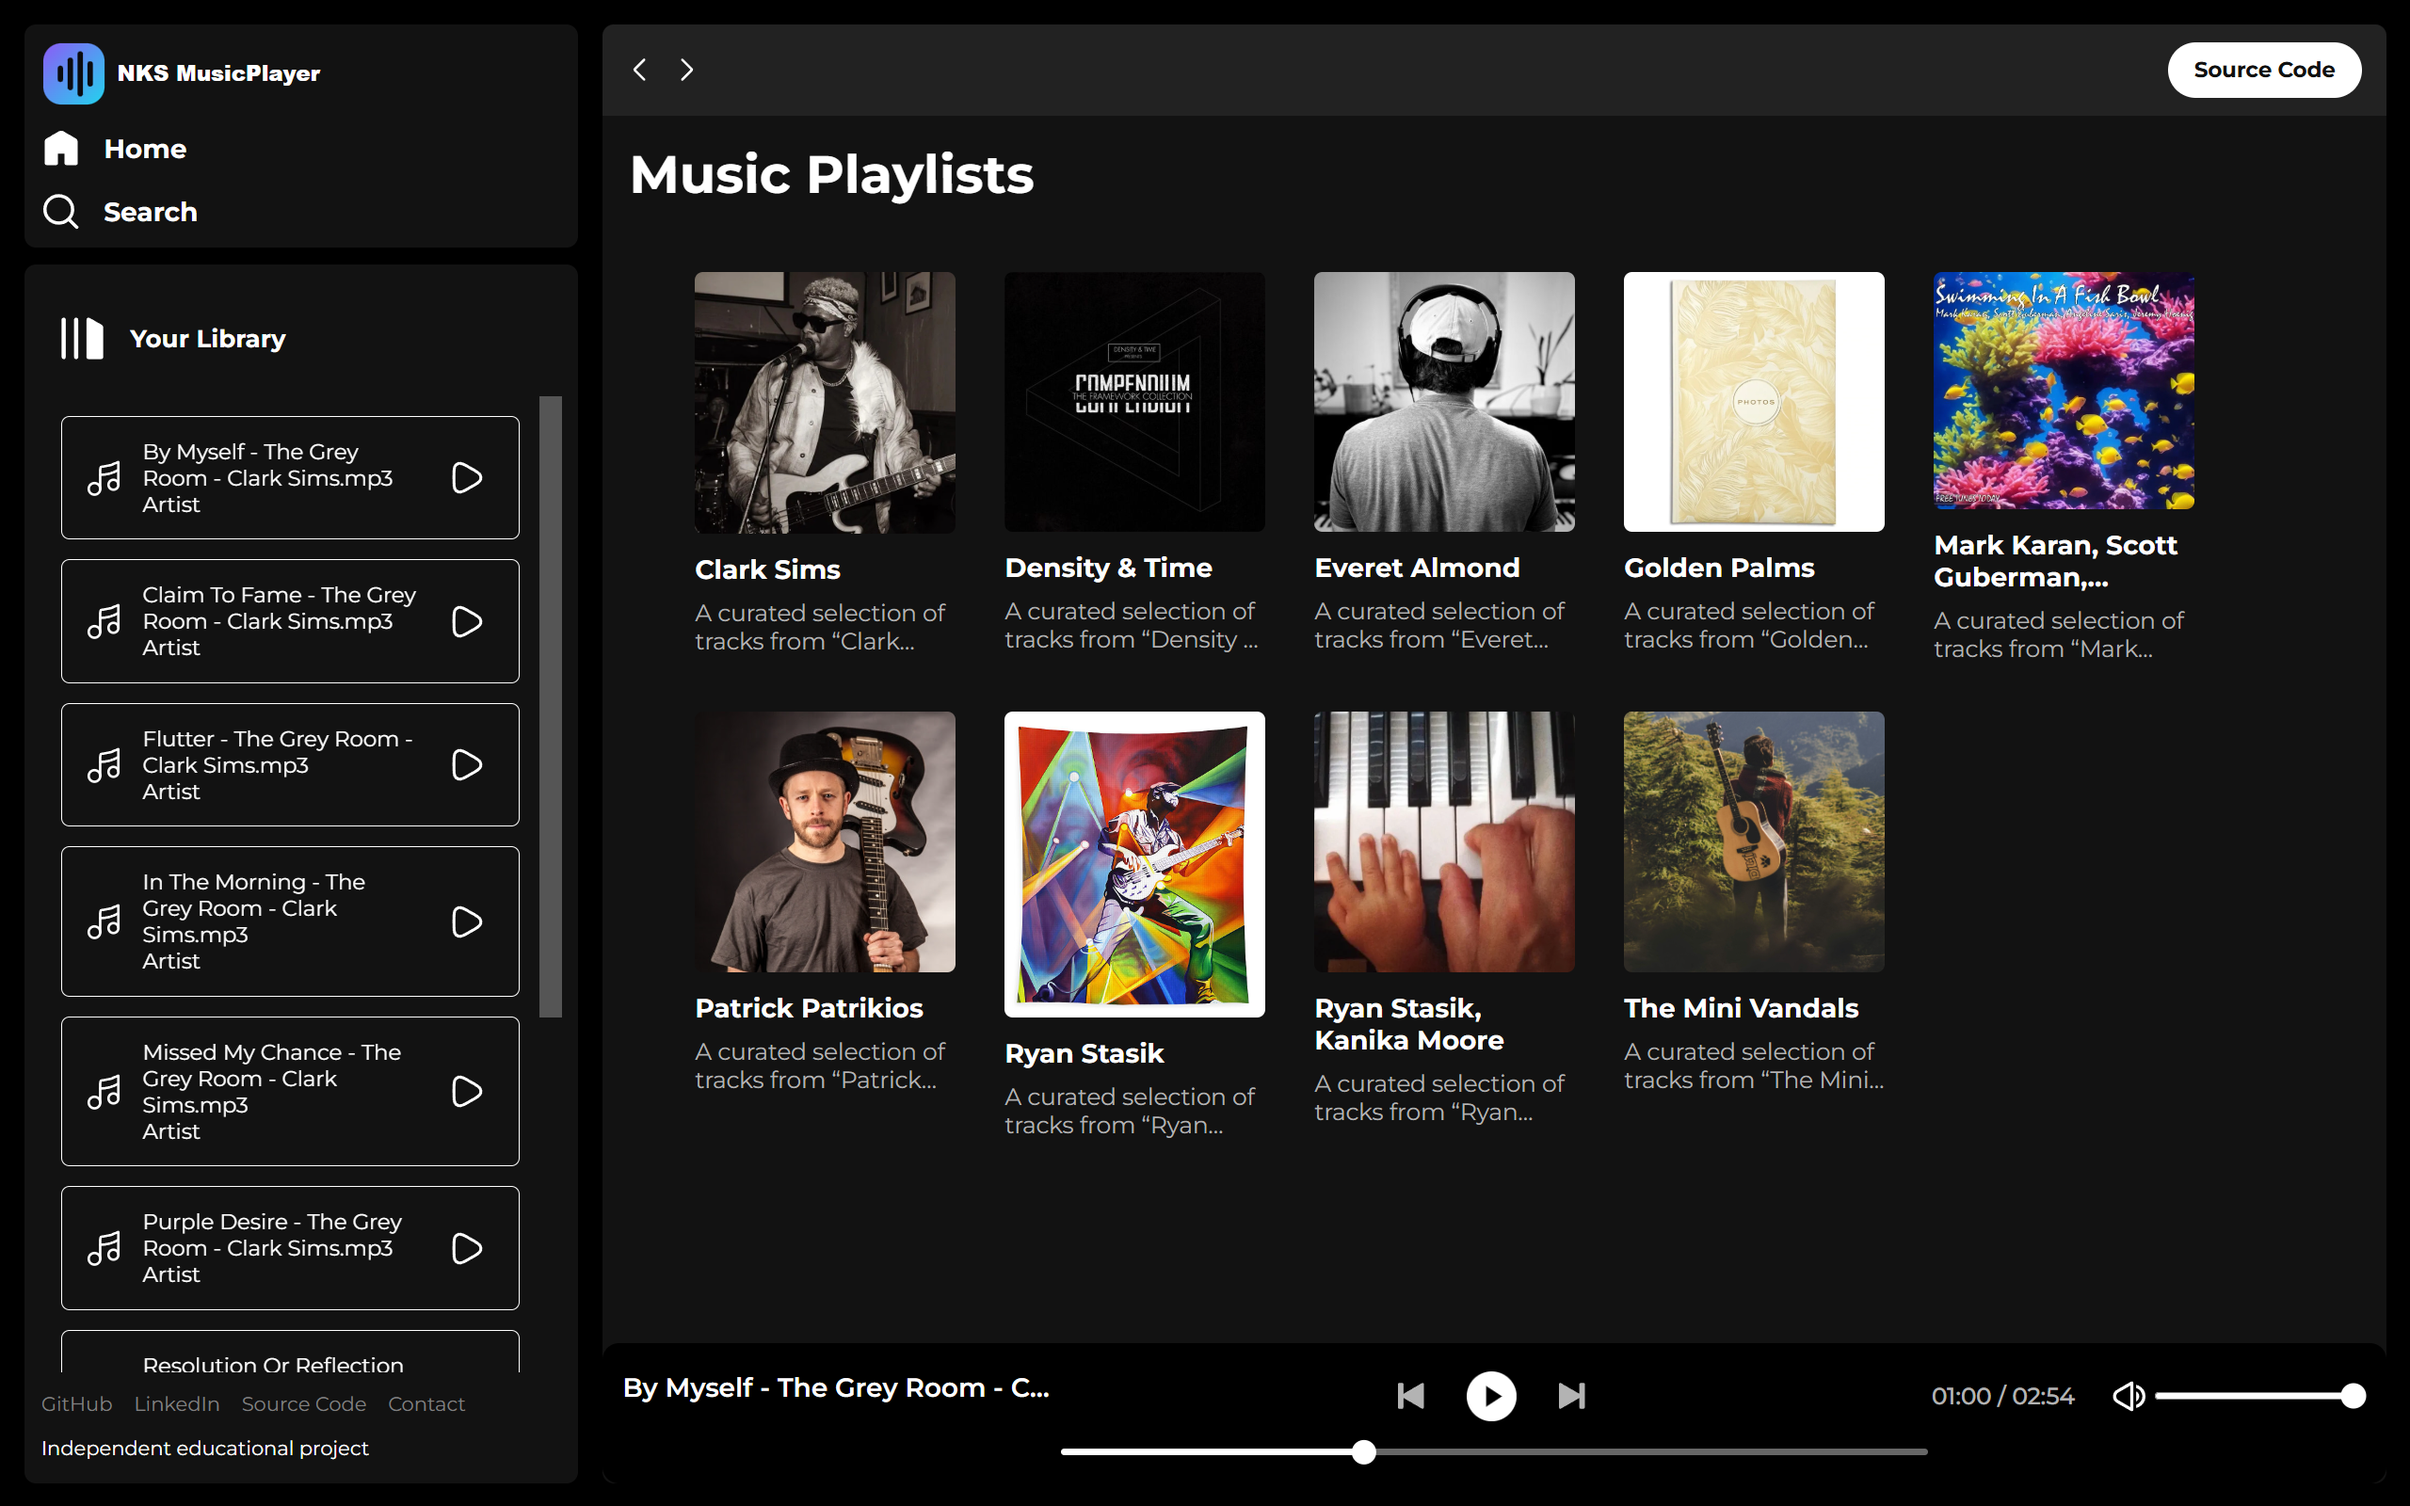
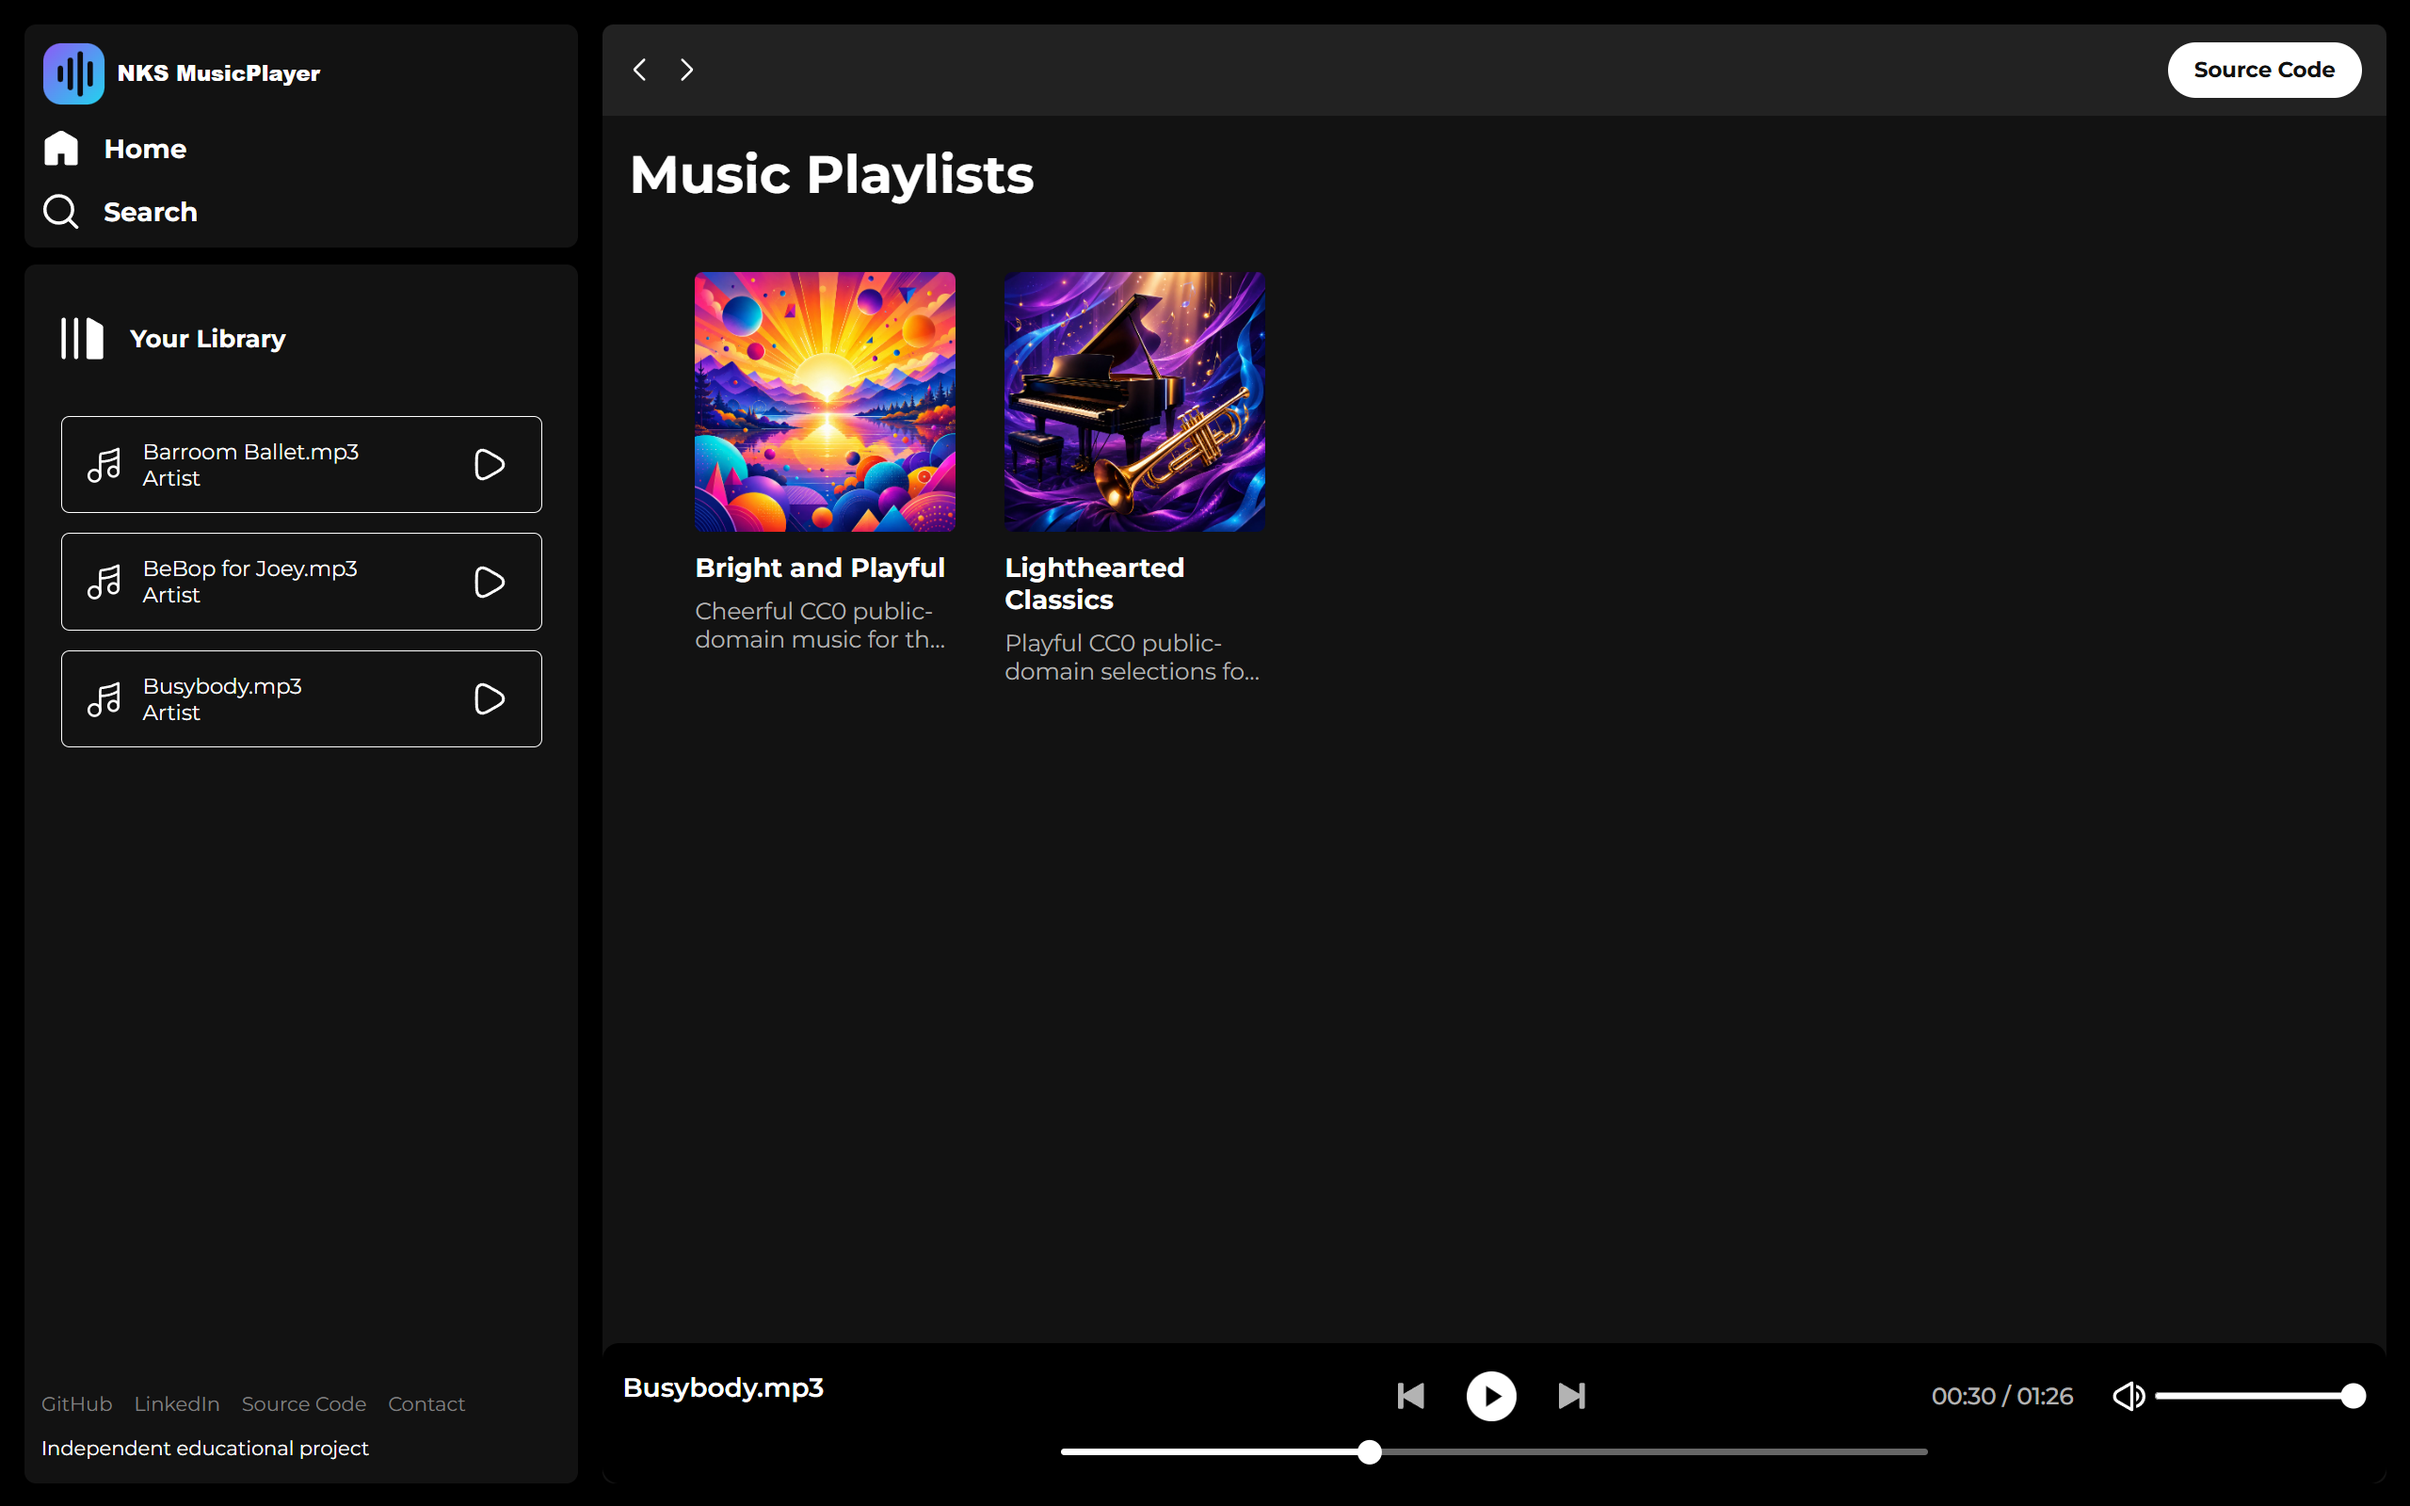
Update README and project preview

diff --git a/README.md b/README.md
@@ -8,8 +8,22 @@
   A responsive browser-based music player built with HTML, CSS, and vanilla JavaScript.
 </p>
 
-## Overview
+## Live Demo
 
+**Production website:**
+https://music-player-web-app-three.vercel.app
+
+## Preview
+
+[![NKS MusicPlayer preview](img/nks-musicplayer-preview.png)](https://music-player-web-app-three.vercel.app)
+
+The production version includes two CC0 demo collections:
+
+- **Bright and Playful**
+- **Lighthearted Classics**
+
+The player includes six verified CC0 public-domain tracks, custom album artwork, synchronized song-row controls, previous and next navigation, seek preview, saved volume, and saved playback state.
+## Overview
 NKS MusicPlayer is an independent educational web project that loads locally available album metadata and audio tracks. The interface includes album browsing, a scrollable song library, synchronized play and pause controls, track navigation, seeking, volume control, mute restoration, and responsive navigation.
 
 ## Features
